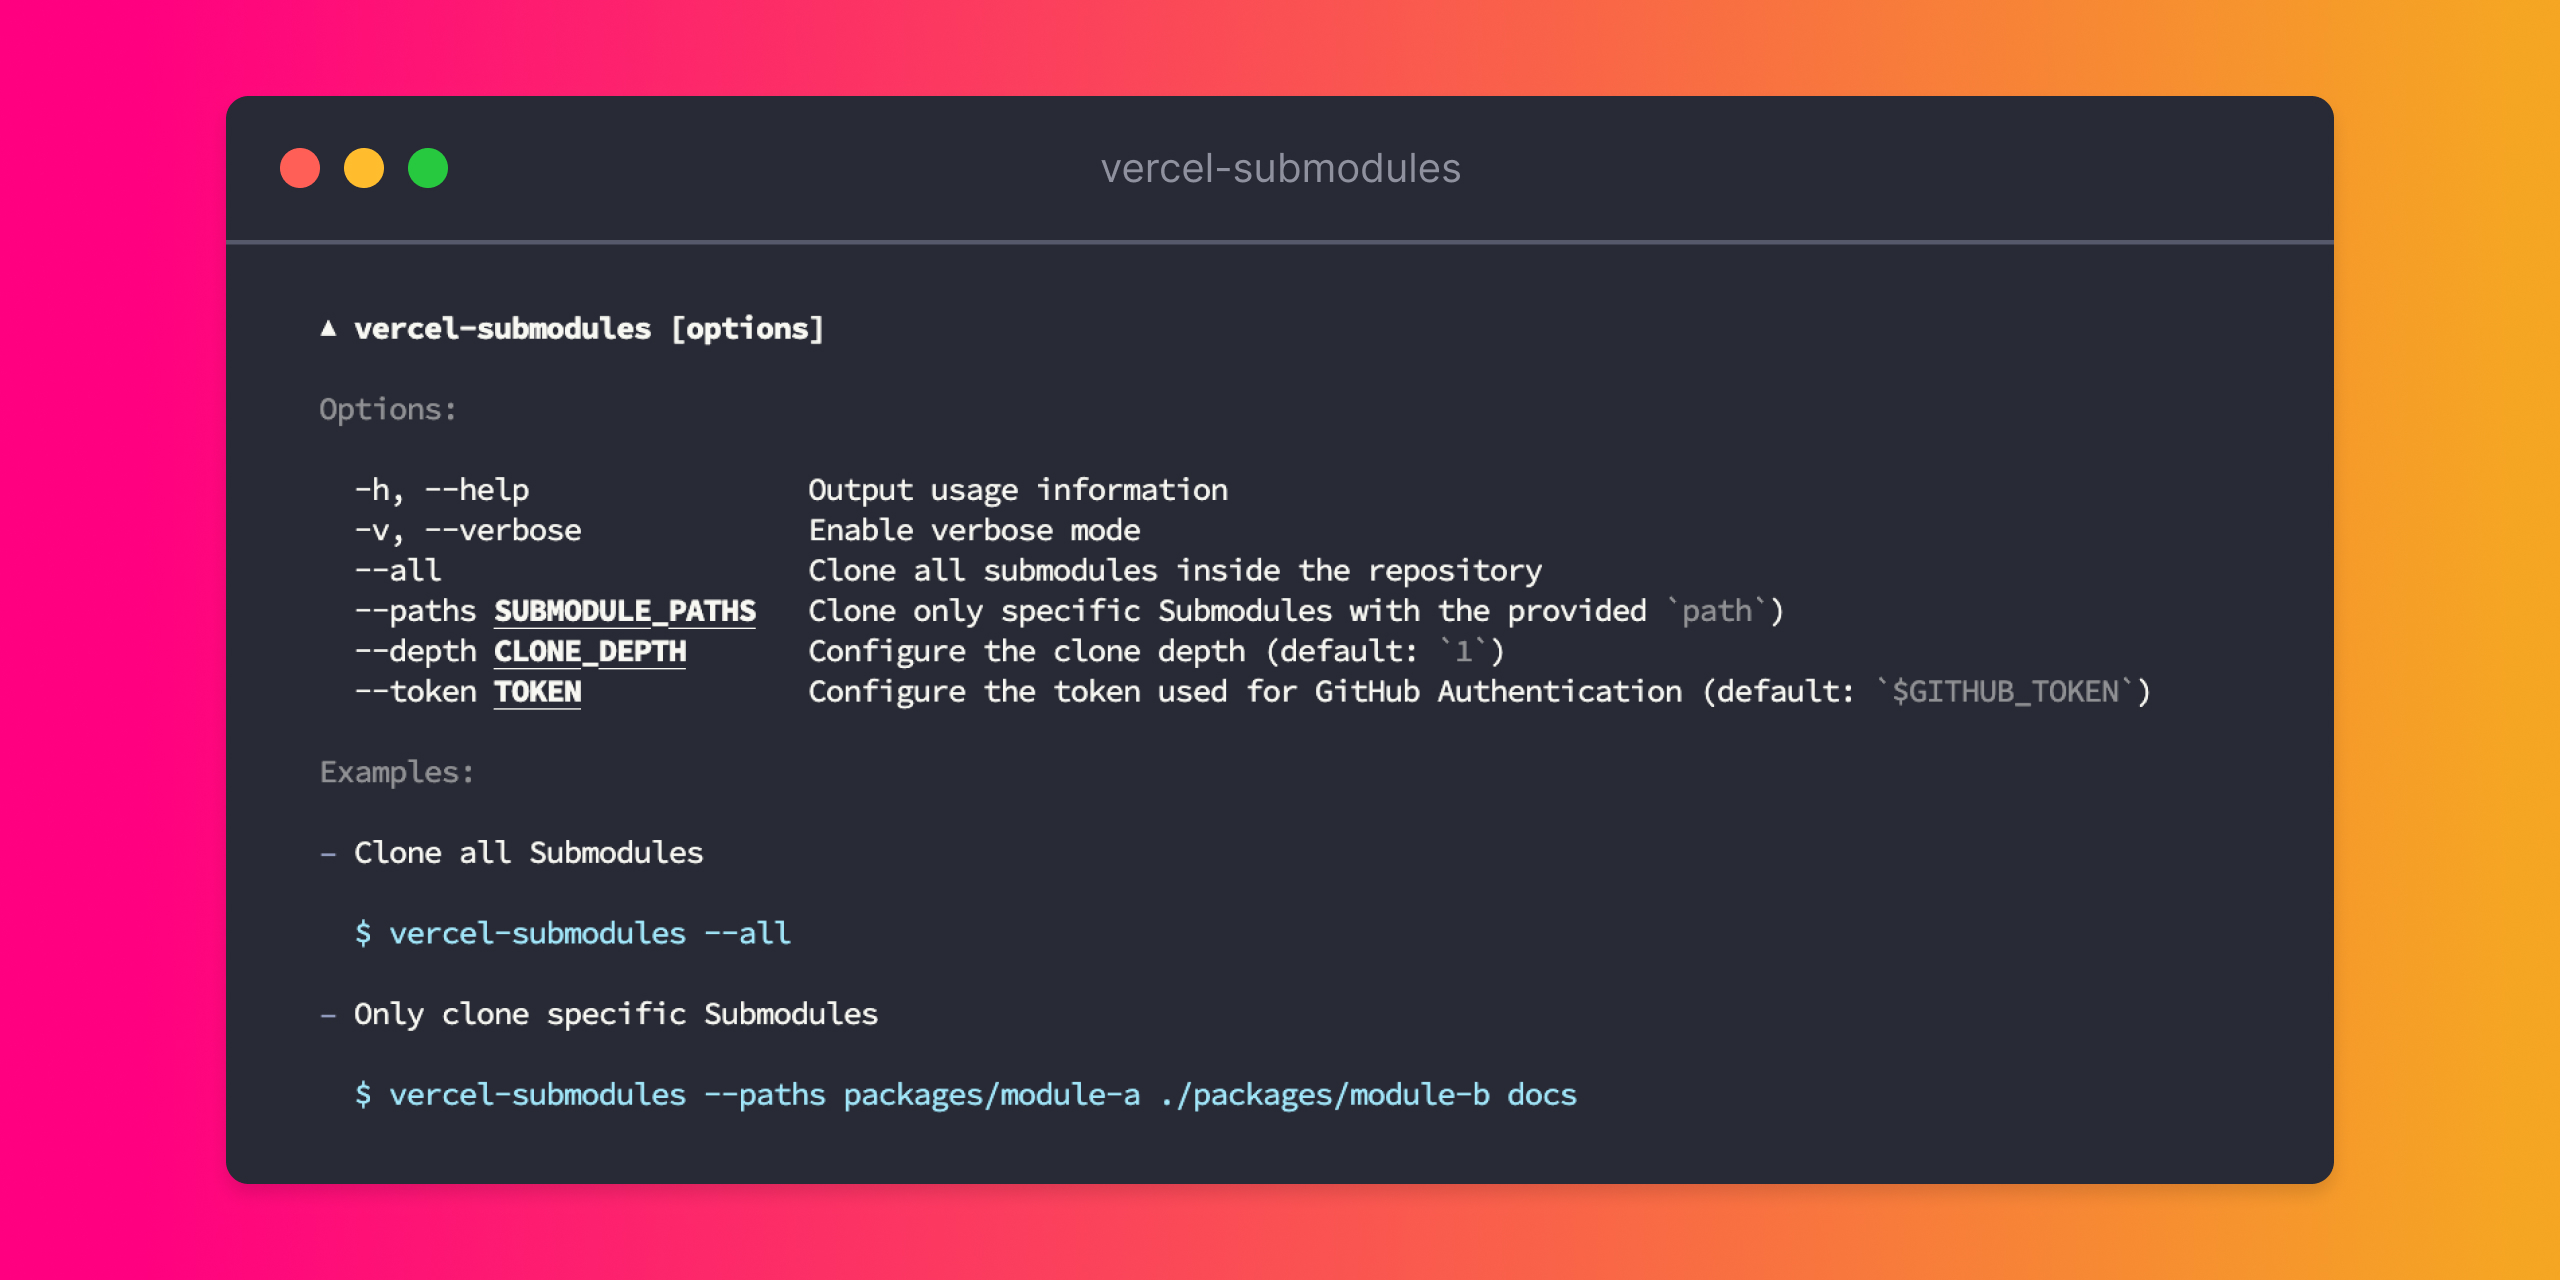
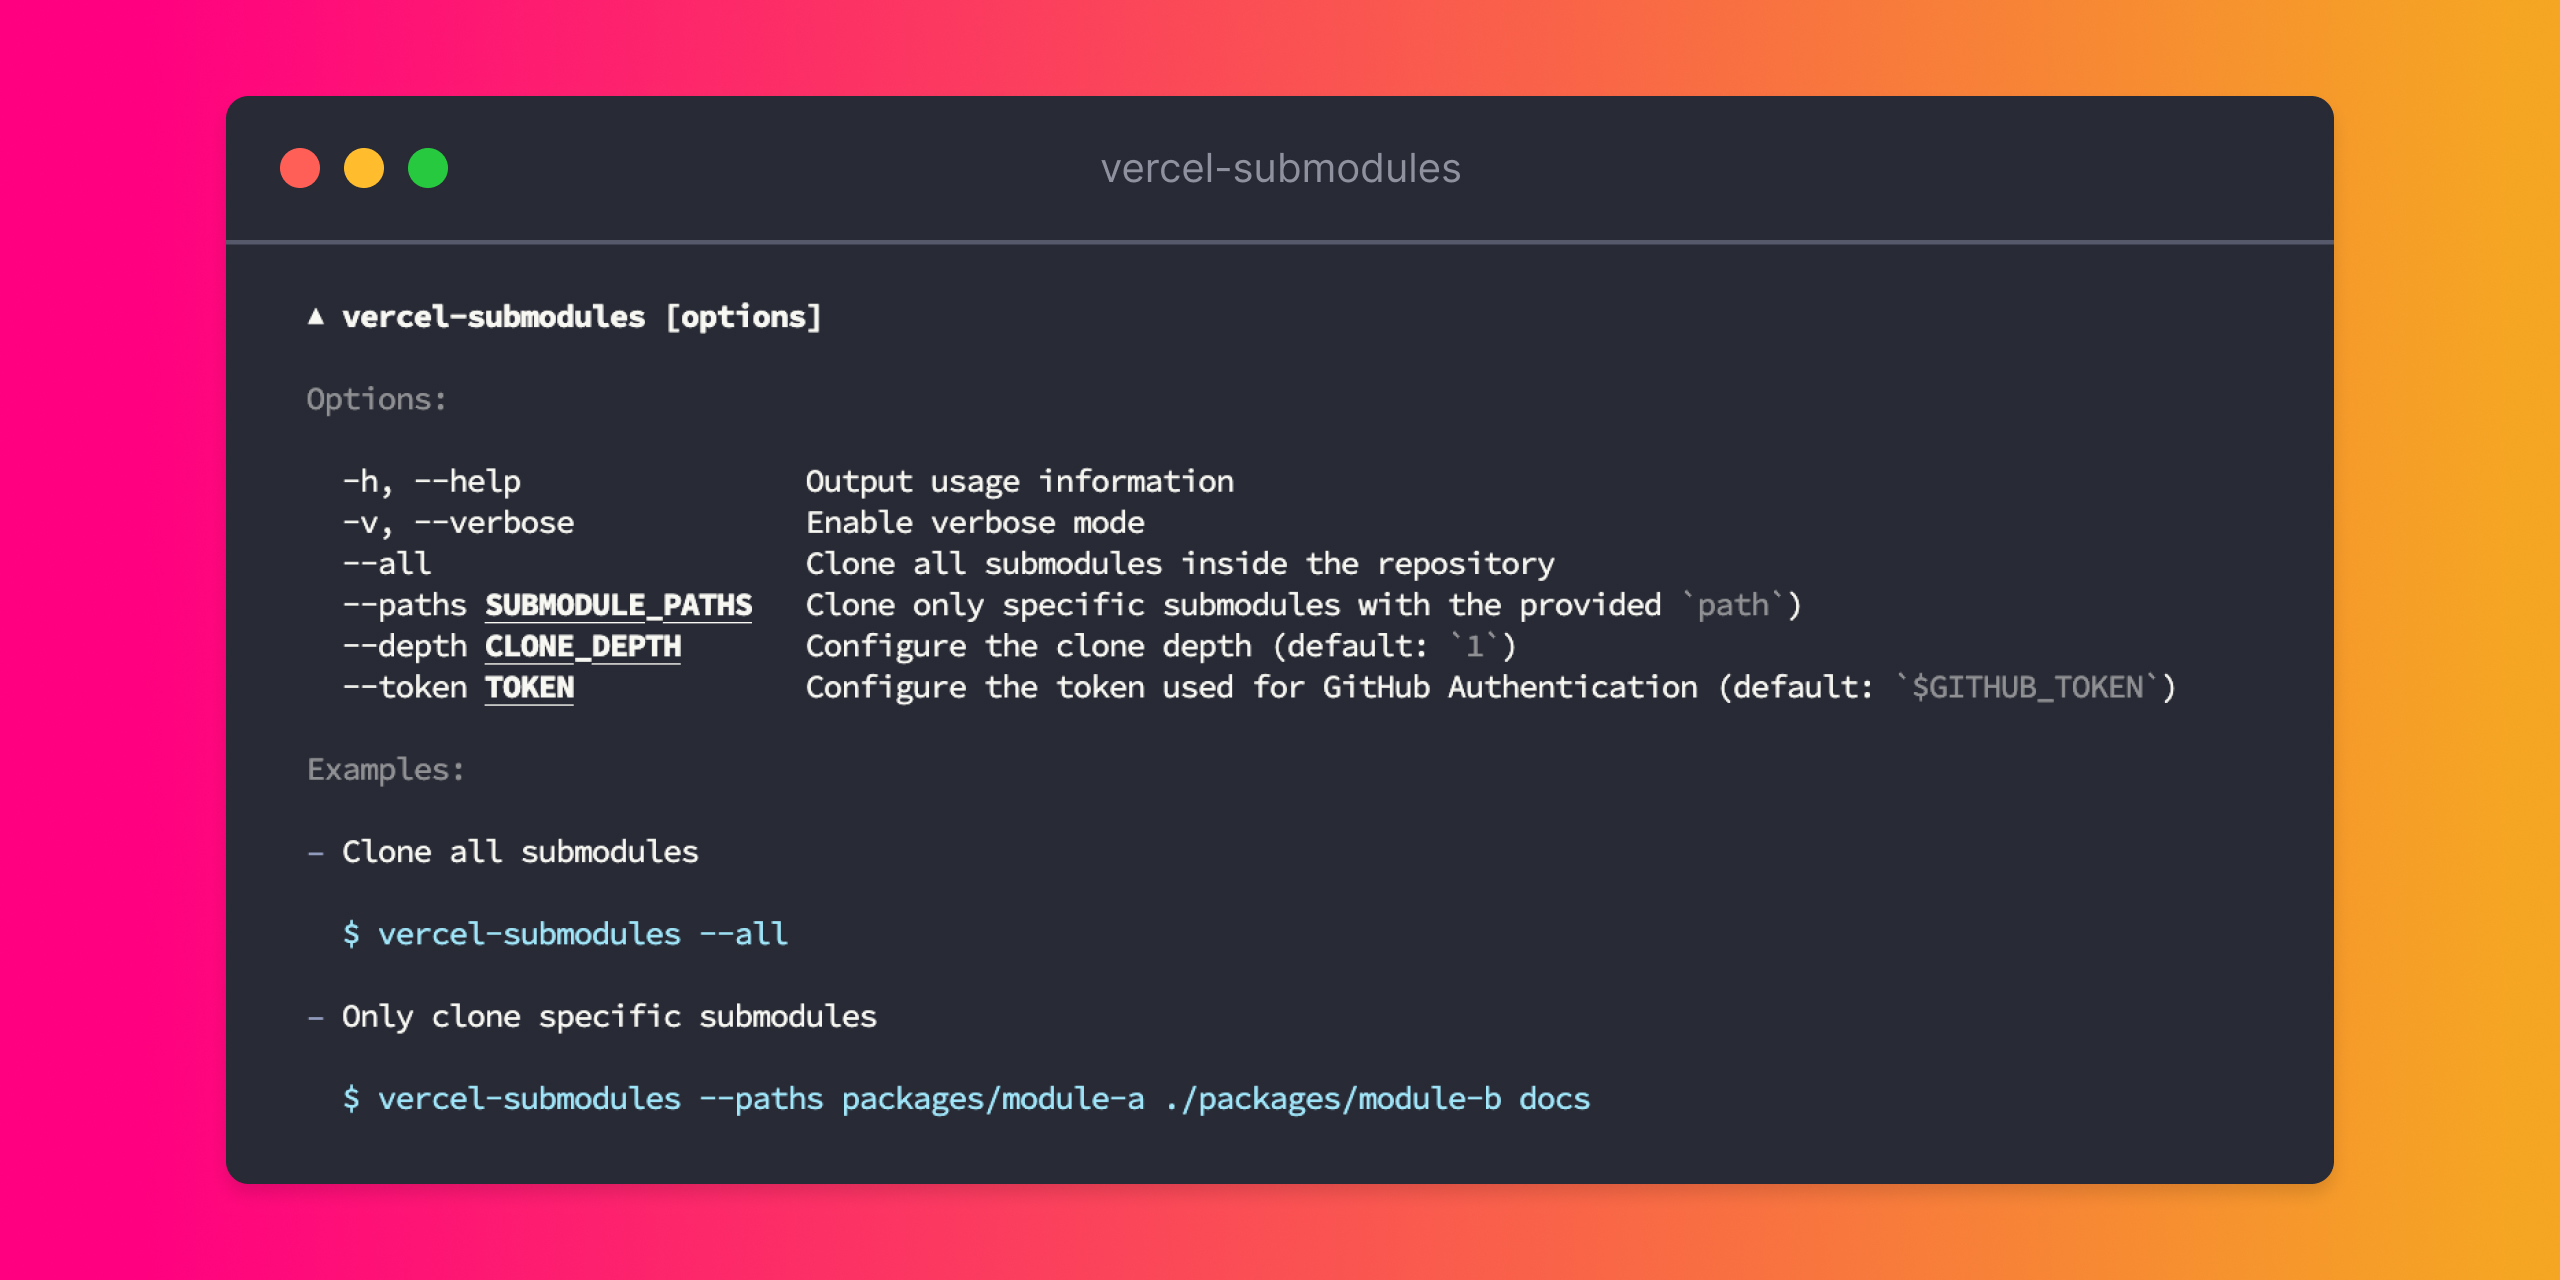
[docs] Update usage information image with fixed typo

diff --git a/README.md b/README.md
@@ -36,7 +36,7 @@ Go to the [**Build & Development Settings** section](https://vercel.com/docs/con
 
 Once configured, `vercel-submodules` take care of everything. It detects the indicated commit hashes with all or configured submodules; you don't have to update anything again!
 
-[![Usage information for `vercel-submodules`](https://raw.githubusercontent.com/junhoyeo/vercel-submodules/main/docs/images/usage-information.jpg)](https://www.npmjs.com/package/vercel-submodules)
+[![Usage information for `vercel-submodules`](https://raw.githubusercontent.com/junhoyeo/vercel-submodules/main/docs/images/usage-information.jpg?v=2)](https://www.npmjs.com/package/vercel-submodules)
 
 ## Clone all Submodules
 
